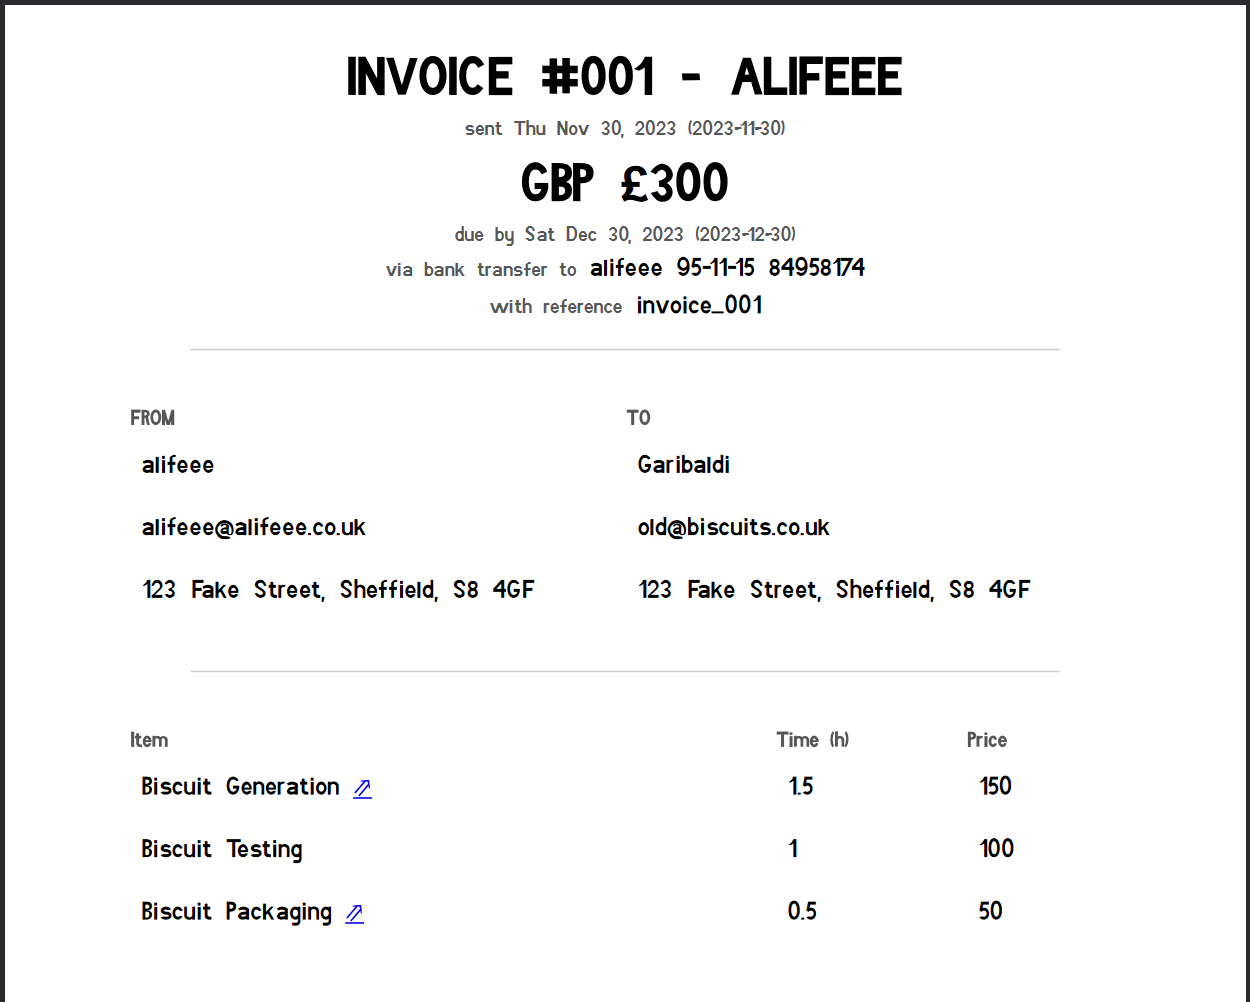
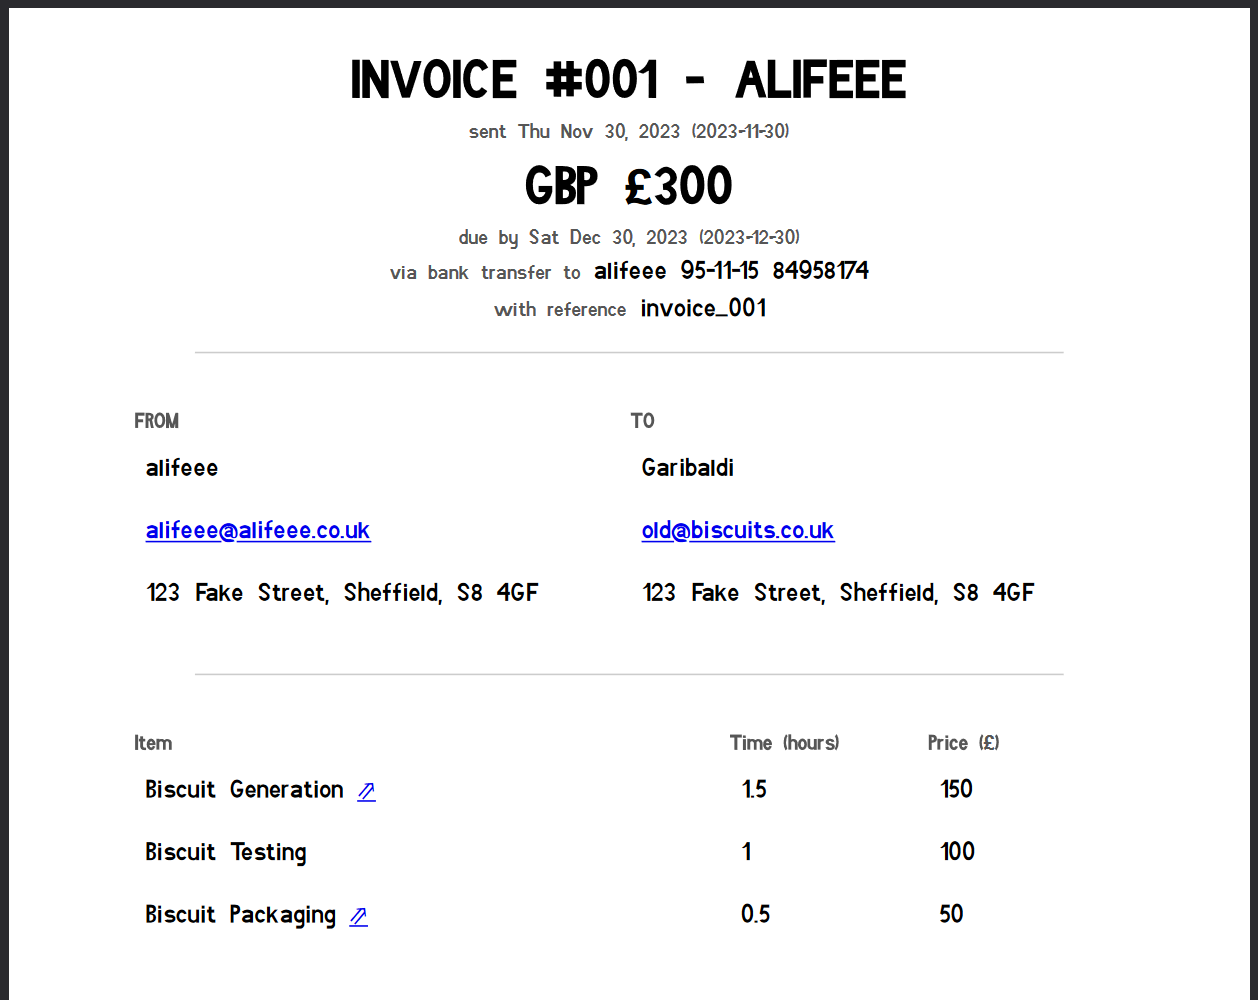
update readme

diff --git a/README.md b/README.md
@@ -1,6 +1,28 @@
 # Invoice Template
 
-Template for making an invoice. Outputs HTML and PDF.
+Template for making an invoice. Outputs HTML and PDF. Uses TOML for information, e.g.,
+
+```toml
+id = "001"
+amount = "300"
+issue_date = "2023-11-30"
+due_date = "2023-12-30"
+
+[from]
+name = "alifeee"
+
+[to]
+name = "Garibaldi"
+
+[[items]]
+title = "Biscuit Generation"
+time_h = "1.5"
+charge = "150"
+
+...
+```
+
+...creates...
 
 ![Screenshot of PDF invoice, filled in with example data.](images/invoice.png)
 
